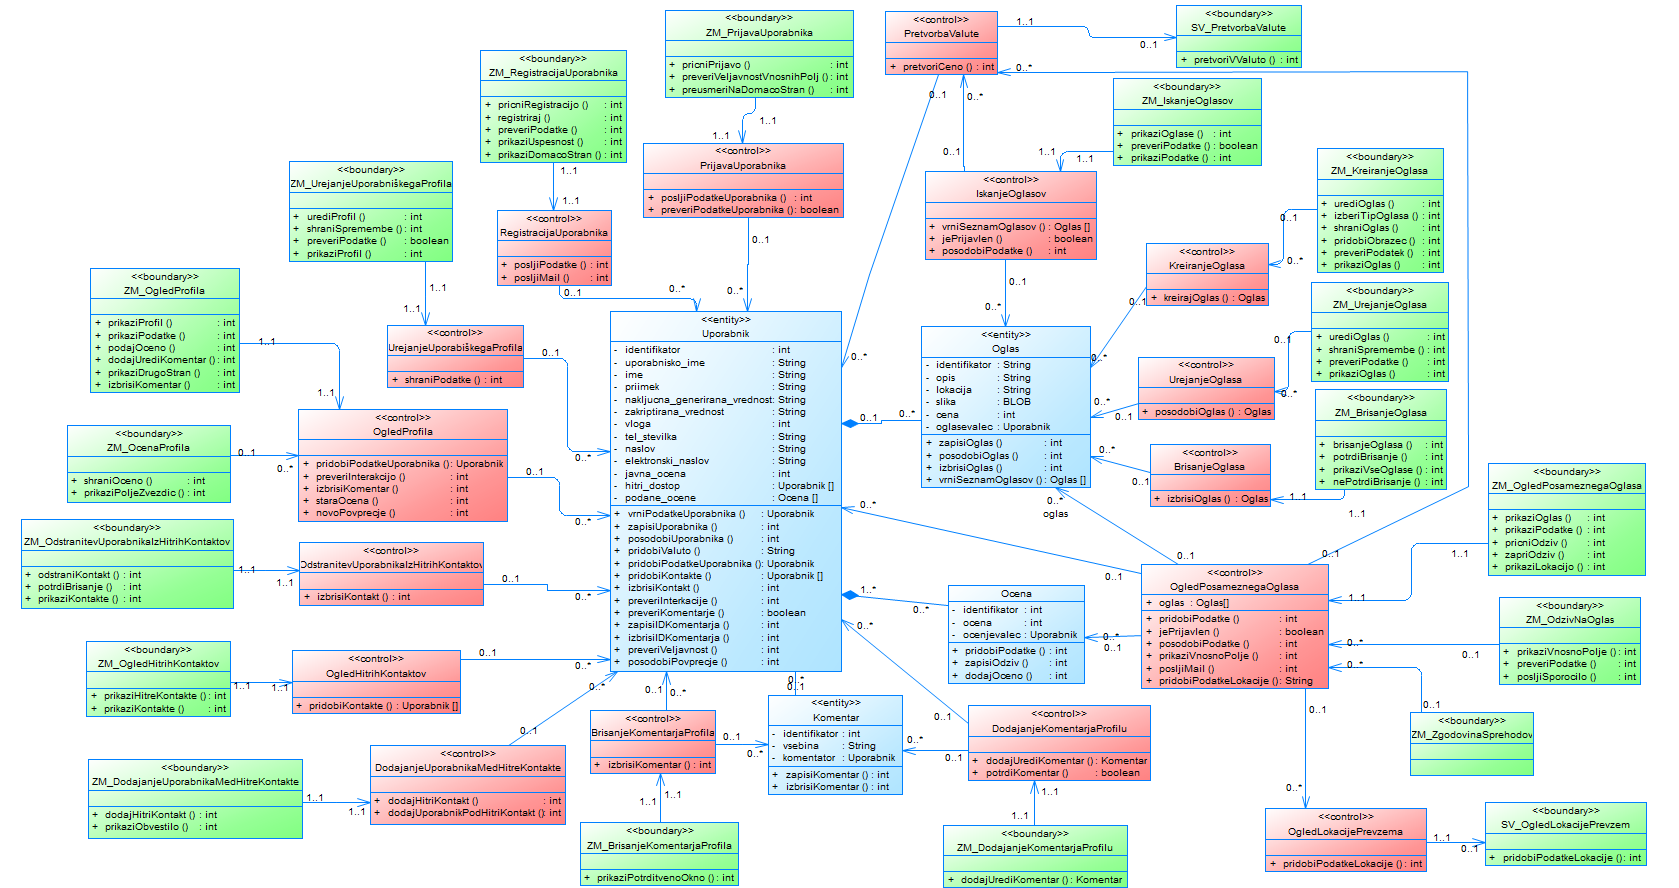
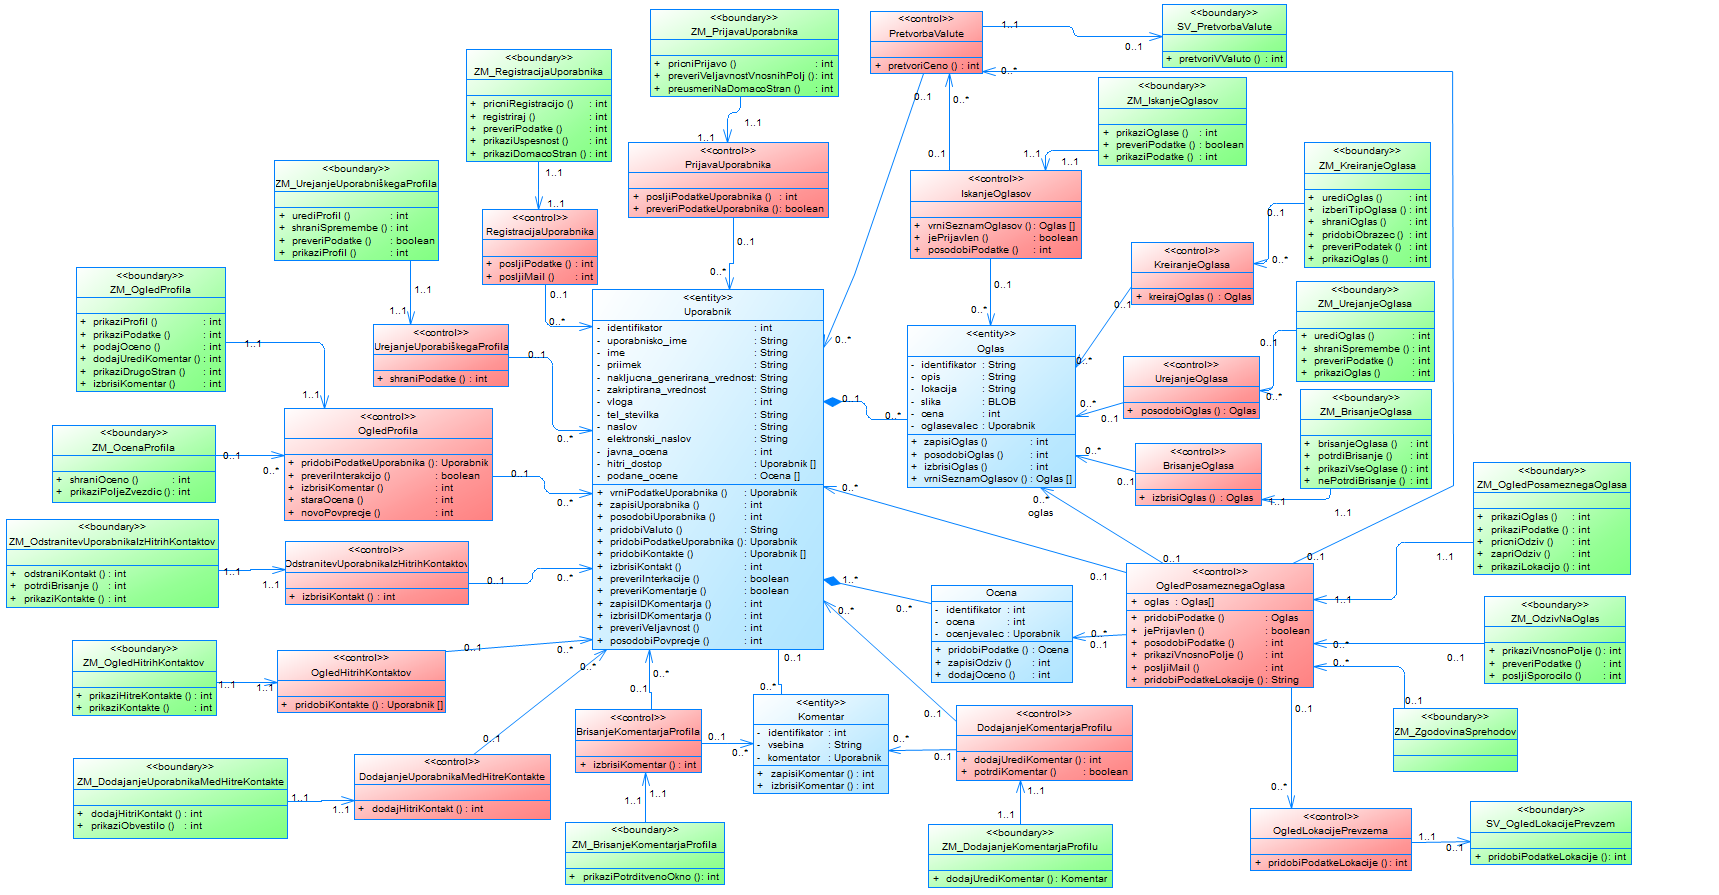
popravljen razredni diagram

diff --git a/docs/nacrt/README.md b/docs/nacrt/README.md
@@ -22,6 +22,11 @@ uporabljenih pri predstavitvi funkcionalnosti in njihovih osnovnih, alternativni
 ## 1. Načrt arhitekture
 
 ### LOGIČNI POGLED
+
+**DIAGRAM**  
+  <img src="../img/logicni_pogled.png">
+    
+
 #### Entitete
 Za namene boljšega razumevanja smatrajte besedno zvezo **Unikatni identifikator** kot *niz znakov*, ki se uporablja kot primarni ključ vsake entitete.
 
@@ -95,23 +100,7 @@ Komentar je entiteta vezana na svojega uporabnika in je zgrajena iz naslednjih l
 - Vsebina in
 - Komentatorja.
 > Uporabnik in Komentator v obliki unikatnih identifikatorjev služita kot prejemnik komentarja in podpis komentatorja.
-
-**Struktura**
-|                   |                                                        |
-| :-------------------------- | :------------------------------------------------------ |
-| Unikatni identifikator          | <div class="dataType">*(niz znakov - ustvarjeno samodejno)*</div>  |
-| Vsebina          | <div class="dataType">*(niz znakov - obvezno)*</div>  |
-| Komentator | <div class="dataType">*(**unikatni identifikator** - obvezno)*</div> |
-
-#### Relacije med entitetami
-Na spodnji sliki so v neformalnem diagramu predstavljene relacije med zamišljenimi entitetami
-<img src="../img/relacije.png" style="width:50%">
-
-Diagram si interpretiramo na sledeč način.
-- en uporabnik lahko ustvari 0 ali več oglasov, kjer en oglas priapda točno enemu uporabniku
-- enemu uporabniku lahko pripada 0 ali več komentarjev (ki jih je podal sam, ali pa jih ostali dodali njemu), kjer en komentar pripada točno enemu uporabniku
-- en uporabnik lahko ustvari 0 ali več odzivov, kjer en odziv pripada točno enemu uporabniku
-- en oglas lahko vsebuje 0 ali več odzivov, kjer je odziv vezan na točno en oglas  
+ 
 
 ##### **4. Ocena**
 Ocenar je entiteta vezana na svojega uporabnika in je zgrajena iz naslednjih lastnosti:
@@ -152,7 +141,10 @@ Arhitektura **spletne aplikacije** bo zasnovana po vzorcu **model-pogled-krmilni
 
 Vsaka entiteta bo ustrezno preslikana v sebi pripadajoč *model*. Vsakemu modelu bo pripadal samostojen *Krmilnik*, ki bo implementiral potrebne **CRUD** operacije za model, ki mu pripadajo. 
 
-*Pogled* modela bo na čelnem delu dinamično prikazoval potrebne obrazce za ustvarjanje novega zapisa modela v podatkovni bazi, posodabljanje že obstoječega zapisa, omogočal pa bo tudi prikaz *master-detail* vzorca in opcijo izbrisa zapisa modela iz podatkovne baze.
+*Pogled* modela bo na čelnem delu dinamično prikazoval potrebne obrazce za ustvarjanje novega zapisa modela v podatkovni bazi, posodabljanje že obstoječega zapisa, omogočal pa bo tudi prikaz *master-detail* vzorca in opcijo izbrisa zapisa modela iz podatkovne baze.  
+  
+  **DIAGRAM**  
+  <img src="../img/razvojni_pogled.png">
 
 #### **Avtentikacija**
 Dostop do podatkov bo regulirala komponenta za avtentikacijo, kjer bo sistem avtentkacije implementiran po principu **JWT**. 
